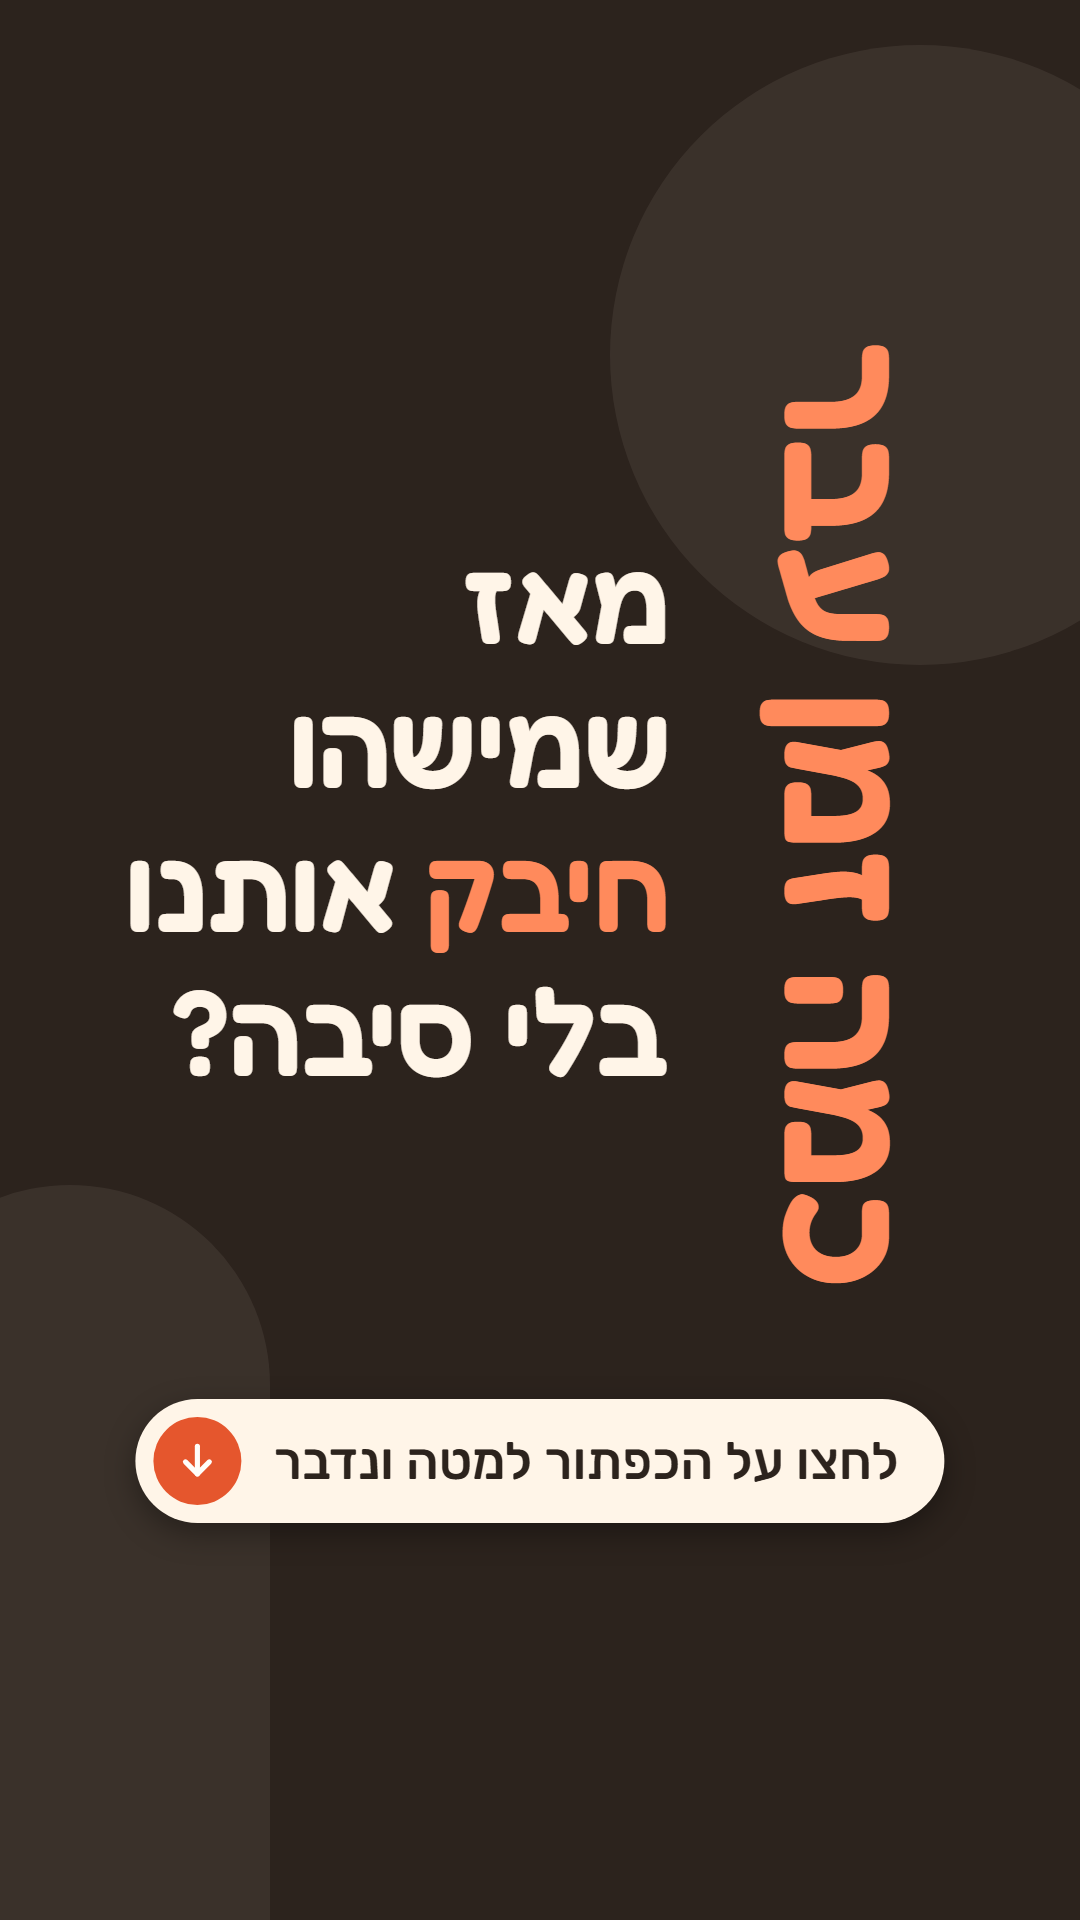
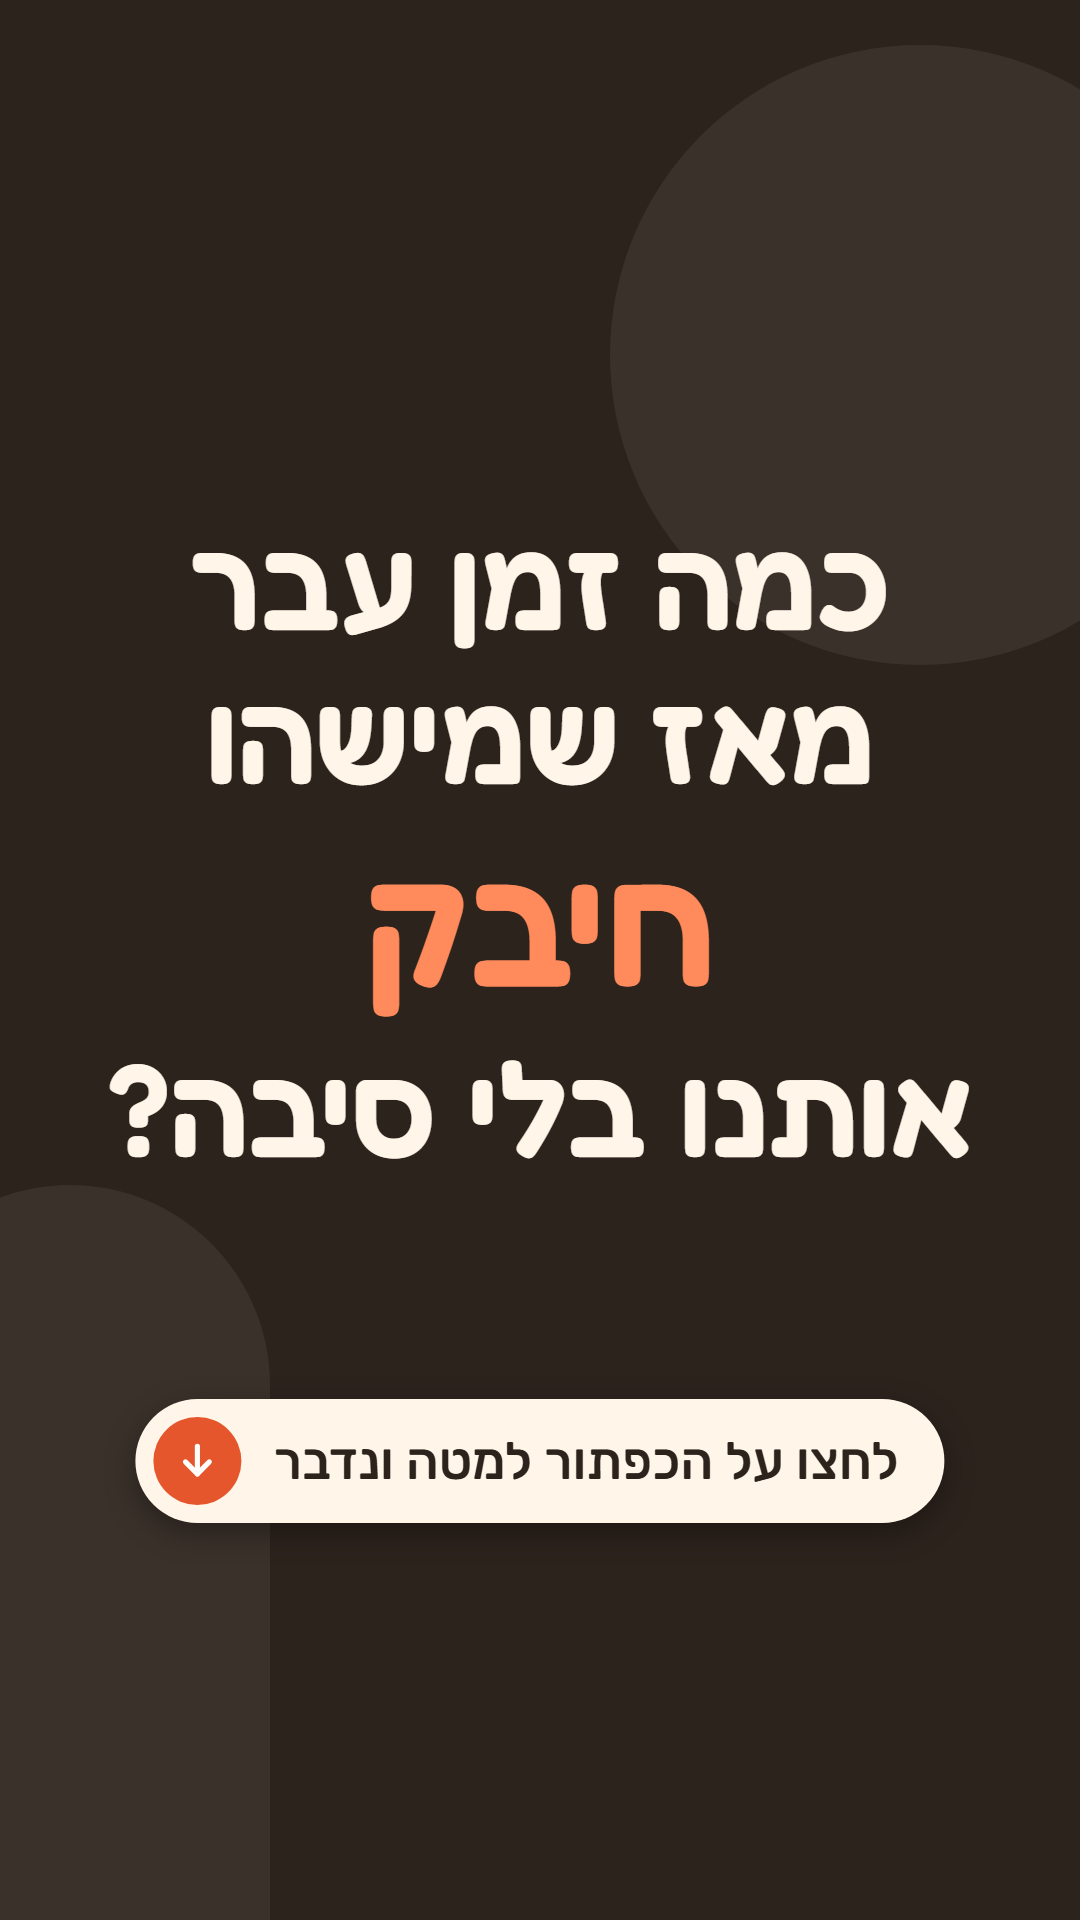
מודעות צ'אט: חזרה לשורות רגילות על רקע כהה, עם מילת הדגשה גדולה בצבע חי

Changed region(s): [[0.0917, 0.1562, 0.9167, 0.6875]]

diff --git a/ads/tools/build_chat_ads.py b/ads/tools/build_chat_ads.py
@@ -5,18 +5,17 @@ import json, pathlib, subprocess, tempfile, sys
 sys.path.insert(0, str(pathlib.Path(__file__).parent))
 import build_ads as B
 ROOT = B.ROOT
-# מפתח -> (שורות אופקיות, מילים מאונכות (קוראים מלמטה למעלה), צבע הדגשה חי (מהפלטה: coral / sage / terra) על רקע ink, צד האונך: left/right, רוחב עמודת האונך)
-# הרצף בקריאה (מימין לשמאל, כמו בעברית): קודם המילים המאונכות הגדולות מצד ימין (קוראים מלמעלה למטה, שורה אחרי שורה לכיוון שמאל), ואז ממשיכים לשמאלן אל המשפט האופקי. מה שב-[ ] מודגש.
+# מפתח -> (המשפט, צבע הדגשה חי מהפלטה: coral / sage / terra, על רקע ink). שורות רגילות מימין לשמאל, וההדגשה גדולה יותר בשורה משלה.
 ADS = {
-  "touch": ("מאז שמישהו [חיבק] אותנו בלי סיבה?", "כמה זמן עבר", "#FF8A5C", "right", 300),
-  "mask": ("היא לא מהעבודה. היא מלהיות [בסדר] כל היום", "העייפות<br>הכי גדולה", "#8DB255", "right", 330),
-  "numb": ("זה שהכול בסדר, [ואנחנו כבר לא מרגישים]", "הכי מפחיד<br>זה לא שהכול רע.", "#E5562D", "right", 340),
+  "touch": ("כמה זמן עבר מאז שמישהו [חיבק] אותנו בלי סיבה?", "#FF8A5C"),
+  "mask": ("העייפות הכי גדולה היא לא מהעבודה. היא מלהיות [בסדר] כל היום", "#8DB255"),
+  "numb": ("הכי מפחיד זה לא שהכול רע. זה שהכול בסדר, [ואנחנו כבר לא מרגישים]", "#E5562D"),
 }
 CTA = "לחצו על הכפתור למטה ונדבר"
 
-def page(h, v, i, side, vw):
-    bg, fg, acc, deco = "#2C231D", "#FFF5E8", i, "rgba(255,245,232,.07)"   # ink, cream, ובצבע הדגשה חי
-    top, bot, gut = B.SAFE + 60, B.SAFE + 350, 80
+def page(text, acc):
+    bg, fg, deco = "#2C231D", "#FFF5E8", "rgba(255,245,232,.07)"   # ink, cream
+    top, bot = B.SAFE + 120, B.SAFE + 350
     ch = B.H - top - bot
     return f'''<!doctype html><html lang="he" dir="rtl"><head><meta charset="utf-8">
 <link href="https://fonts.googleapis.com/css2?family=Fredoka:wght@600&family=Rubik:wght@500;600;700&display=swap" rel="stylesheet">
@@ -26,12 +25,9 @@ html,body{{width:{B.W}px;height:{B.H}px;overflow:hidden}}
 body{{background:{bg};color:{fg};font-family:Fredoka,Rubik,sans-serif;position:relative}}
 .c1{{position:absolute;right:-150px;top:{B.SAFE-240}px;width:620px;height:620px;border-radius:50%;background:{deco}}}
 .c2{{position:absolute;left:-130px;bottom:0;width:400px;height:{450+B.SAFE}px;border-radius:200px 200px 0 0;background:{deco}}}
-.main{{position:absolute;left:{gut}px;right:{gut}px;top:{top}px;height:{ch}px;display:flex;flex-direction:row;gap:30px;align-items:stretch}}
-.h{{flex:1;display:flex;align-items:center;min-width:0}}
-#h{{font-weight:600;line-height:1.2;text-align:right}}
-.v{{order:-1;width:{vw}px;flex:none;display:flex;align-items:center;justify-content:center}}
-#v{{writing-mode:vertical-rl;font-weight:600;line-height:1.05;color:{acc};white-space:nowrap;text-align:center}}
-em{{font-style:normal;color:{acc}}}
+.main{{position:absolute;left:90px;right:90px;top:{top}px;height:{ch}px;display:flex;align-items:center;justify-content:center;text-align:center}}
+#t{{font-weight:600;line-height:1.18}}
+#t em{{font-style:normal;color:{acc};display:block;font-size:1.32em;line-height:1.12;margin:.08em 0}}
 .chat{{position:absolute;bottom:{B.SAFE+112}px;left:50%;transform:translateX(-50%);height:124px;display:flex;align-items:center;gap:26px;
   padding:0 46px 0 18px;border-radius:999px;background:#FFF5E8;border:0;box-shadow:0 10px 30px rgba(0,0,0,.35);white-space:nowrap}}
 .chat .q{{font-family:Rubik;font-size:52px;font-weight:500;color:#2C231D;line-height:1;display:flex;align-items:center}}
@@ -40,23 +36,22 @@ em{{font-style:normal;color:{acc}}}
 .chat .go svg{{width:44px;height:44px}}
 </style></head><body>
 <div class="c1"></div><div class="c2"></div>
-<div class="main"><div class="h"><div id="h">{B.colored(h)}</div></div><div class="v"><div id="v">{v}</div></div></div>
+<div class="main"><div id="t">{B.colored(text)}</div></div>
 <div class="chat"><span class="q">{CTA}</span>
 <span class="go"><svg viewBox="0 0 24 24" fill="none" stroke="#FFFDF9" stroke-width="2.8" stroke-linecap="round" stroke-linejoin="round"><path d="M12 4v15"/><path d="m5.5 12.5 6.5 6.5 6.5-6.5"/></svg></span></div>
 <script>
-const h=document.getElementById('h'), hb=h.parentElement, v=document.getElementById('v'), vb=v.parentElement;
-function fit(el, box, maxFs){{ let fs=maxFs; el.style.fontSize=fs+'px'; while((el.offsetHeight>box.clientHeight||el.offsetWidth>box.clientWidth) && fs>30){{ fs-=4; el.style.fontSize=fs+'px'; }} }}
-fit(v, vb, 300); fit(h, hb, 120);
+const t=document.getElementById('t'), box=t.parentElement;
+let fs=130; t.style.fontSize=fs+'px';
+while((t.offsetHeight>box.clientHeight||t.offsetWidth>box.clientWidth) && fs>30){{ fs-=4; t.style.fontSize=fs+'px'; }}
 </script></body></html>'''
 
 def main():
     out = ROOT/"ads"/"chat"/"img"; out.mkdir(parents=True, exist_ok=True)
     tmp = pathlib.Path(tempfile.mkdtemp())
     openers = json.loads((ROOT/"chat"/"openers.json").read_text(encoding="utf-8"))["items"]
-    for key, (h, v, style, side, vw) in ADS.items():
-        full = v.replace("<br>", " ") + " " + B.plain(h)
-        assert full.replace("‘","'").replace("’","'").replace(" כל ", " כל ") .strip() == openers[key]["ad"].replace("‘", "").replace("’", "").replace("'", "").strip() or key not in openers, key + ": הטקסט שונה מ-chat/openers.json: " + full
-        f = tmp/(key+".html"); f.write_text(page(h, v, style, side, vw), encoding="utf-8")
+    for key, (text, acc) in ADS.items():
+        assert key not in openers or B.plain(text).replace("'", "") == openers[key]["ad"].replace("‘", "").replace("’", "").replace("'", ""), key + ": הטקסט שונה מ-chat/openers.json"
+        f = tmp/(key+".html"); f.write_text(page(text, acc), encoding="utf-8")
         name = f"chat-{key}-916.png"
         subprocess.run([B.CHROME, "--headless", "--disable-gpu", "--hide-scrollbars", f"--window-size={B.W},{B.H}", "--virtual-time-budget=6000",
                         f"--user-data-dir={tmp/('p'+key)}", f"--screenshot={out/name}", f.as_uri()], stdout=subprocess.DEVNULL, stderr=subprocess.DEVNULL, check=False)
